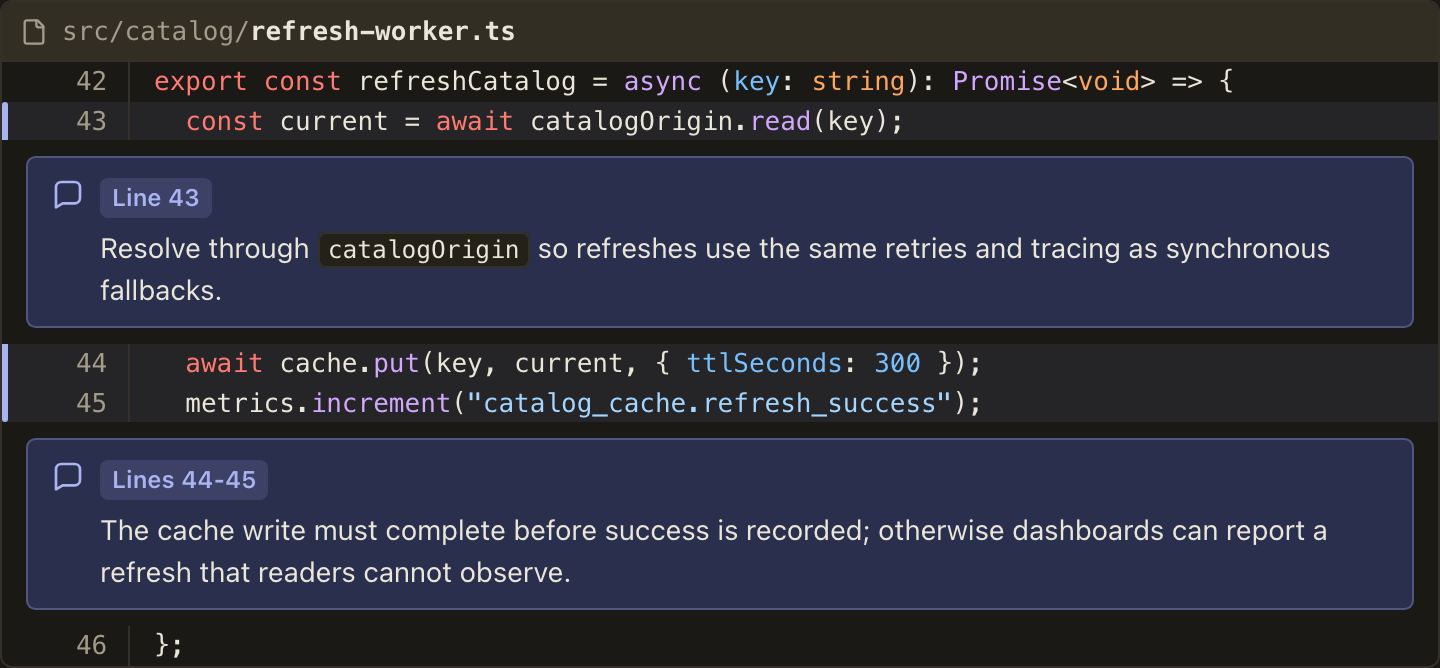
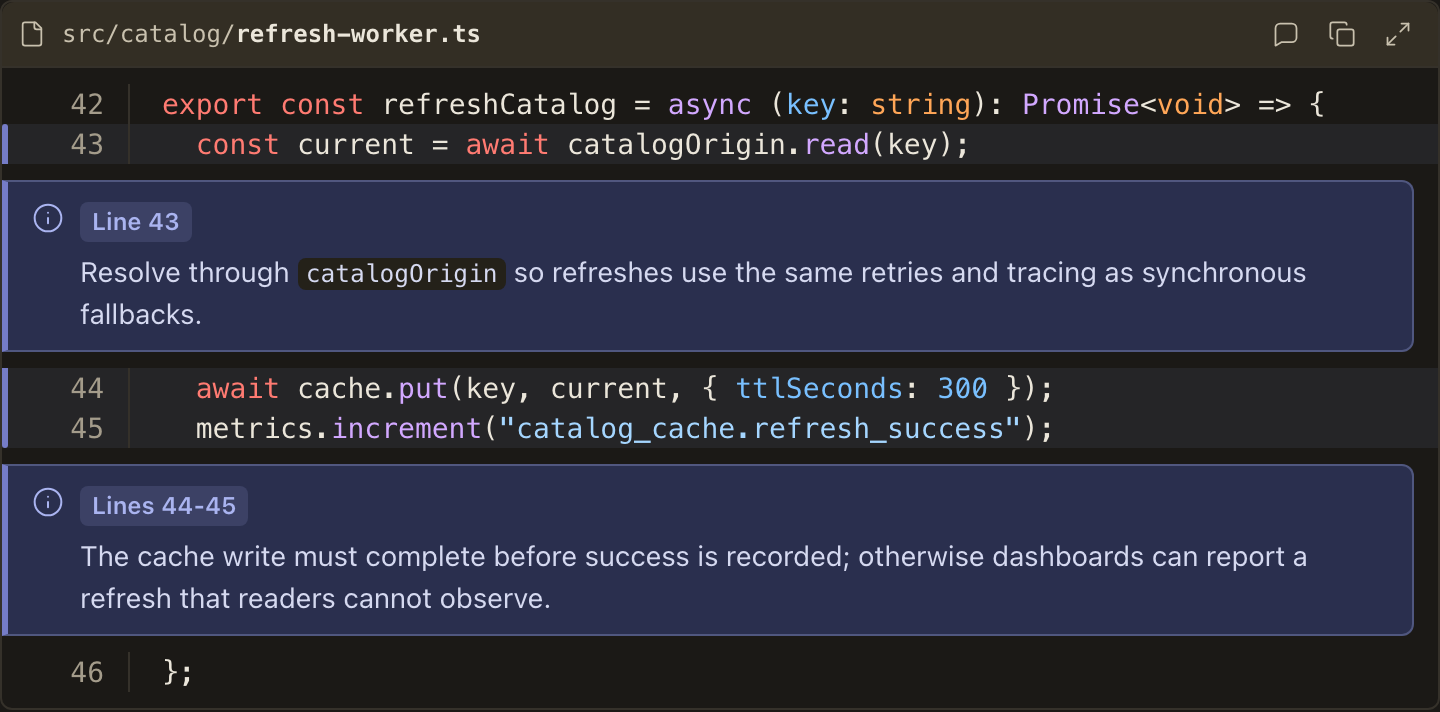
fix(render): reduce CodeSnippet file title size (#192)
* fix(render): quiet CodeSnippet file titles

(No commit body was supplied; this line was added automatically to satisfy this repository's commit-body requirement - see CONTRIBUTING.md.)

* no-mistakes(document): Refresh CodeSnippet documentation screenshots

(No commit body was supplied; this line was added automatically to satisfy this repository's commit-body requirement - see CONTRIBUTING.md.)

* no-mistakes: apply CI fixes

(No commit body was supplied; this line was added automatically to satisfy this repository's commit-body requirement - see CONTRIBUTING.md.)

* no-mistakes: apply CI fixes

(No commit body was supplied; this line was added automatically to satisfy this repository's commit-body requirement - see CONTRIBUTING.md.)

---------

Changed region(s): [[0.0, 0.0898, 1.0, 1.0], [0.0, 0.0299, 0.375, 0.0898], [0.875, 0.0299, 0.9375, 0.0599]]

diff --git a/test/code-snippet-syntax-maximize.spec.ts b/test/code-snippet-syntax-maximize.spec.ts
@@ -5,6 +5,40 @@
 
 import { expect, test } from "./fixtures";
 
+test("should keep the titled header compact and aligned in both themes", async ({
+  page,
+  codeSnippetSyntaxMaximizeViewerUrl,
+}) => {
+  await page.goto(codeSnippetSyntaxMaximizeViewerUrl);
+
+  const frame = page.locator("[data-code-snippet]").first();
+  const fileIdentity = frame.locator(".file-identity");
+  const fileName = fileIdentity.locator(".file-identity-name");
+  const copy = frame.getByRole("button", { name: "Copy code" });
+  const maximize = frame.getByRole("button", { name: "Maximize code" });
+
+  for (const theme of ["light", "dark"]) {
+    await page.evaluate((value) => {
+      document.documentElement.dataset["theme"] = value;
+    }, theme);
+
+    await expect(fileIdentity).toHaveCSS("font-size", "12px");
+    await expect(fileName).toHaveCSS("font-weight", "600");
+
+    const centers = await Promise.all(
+      [fileIdentity, copy, maximize].map((locator) =>
+        locator.evaluate((element) => {
+          const bounds = element.getBoundingClientRect();
+          return bounds.top + bounds.height / 2;
+        }),
+      ),
+    );
+    expect(Math.max(...centers) - Math.min(...centers)).toBeLessThanOrEqual(
+      0.5,
+    );
+  }
+});
+
 test("should reveal line numbers only while maximized and keep them highlighted", async ({
   page,
   codeSnippetSyntaxMaximizeViewerUrl,

diff --git a/src/components/_shared/file-identity/file-identity.tsx b/src/components/_shared/file-identity/file-identity.tsx
@@ -5,7 +5,13 @@ import { lucideIconToReact } from "../lucide-icon/lucide-icon.js";
 
 // The explicit label keeps the accessible name the exact file path,
 // independent of the styled dir/name split below.
-export const FileIdentity = ({ filePath }: { readonly filePath: string }) => {
+export const FileIdentity = ({
+  filePath,
+  size = "default",
+}: {
+  readonly filePath: string;
+  readonly size?: "default" | "compact";
+}) => {
   const lastSlashIndex = filePath.lastIndexOf("/");
   const fileDir =
     lastSlashIndex === -1 ? "" : filePath.slice(0, lastSlashIndex + 1);
@@ -13,7 +19,7 @@ export const FileIdentity = ({ filePath }: { readonly filePath: string }) => {
     lastSlashIndex === -1 ? filePath : filePath.slice(lastSlashIndex + 1);
   return (
     <span
-      className="file-identity flex min-w-0 items-center gap-2 [&>svg]:size-3.5 [&>svg]:shrink-0 [&>svg]:text-muted"
+      className={`file-identity flex min-w-0 items-center gap-2 [&>svg]:size-3.5 [&>svg]:shrink-0 [&>svg]:text-muted ${size === "compact" ? "text-xs" : ""}`}
       aria-label={filePath}
     >
       {lucideIconToReact({ icon: FILE_ICON, hidden: false })}

diff --git a/src/components/code-snippet/view.tsx b/src/components/code-snippet/view.tsx
@@ -26,7 +26,7 @@ const SnippetHeader = ({ filePath }: { readonly filePath?: string }) => (
         Code snippet
       </span>
     ) : (
-      <FileIdentity filePath={filePath} />
+      <FileIdentity filePath={filePath} size="compact" />
     )}
     <span className="code-snippet-controls flex shrink-0 items-center gap-1">
       <span className="figure-action-group inline-flex items-center gap-1">
